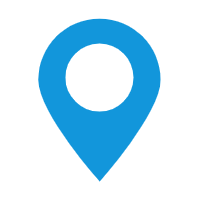
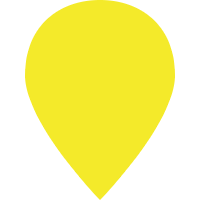
fix(聚合): 聚合

diff --git a/src/pages/entitys/EntityCluster2/index.vue b/src/pages/entitys/EntityCluster2/index.vue
@@ -61,7 +61,11 @@ export default {
                 entity.billboard.height = 50
                 customdataSource.entities.add(entity)
             }
+            customdataSource.clustering.enabled = true
+            customdataSource.clustering.pixelRange = 40
+            customdataSource.clustering.minimumClusterSize = 3
             this.viewer.dataSources.add(customdataSource)
+
             this.watchClusterListener(customdataSource)
         },
         watchClusterListener(dataSource) {
@@ -71,13 +75,20 @@ export default {
             } else {
                 this.removeListener = dataSource.clustering.clusterEvent.addEventListener(
                     (clusteredEntities, cluster) => {
-                        cluster.label.show = false
+                        cluster.label.show = true
+
+                        cluster.label.text = clusteredEntities.length.toLocaleString()
+                        cluster.label.font = '20px sans-serif'
+                        cluster.label.fillColor = Cesium.Color.BLACK
+                        cluster.label.pixelOffset = new Cesium.Cartesian2(-5, -0)
+                        cluster.label.eyeOffset = new Cesium.Cartesian3(0, 0, -10000)
                         cluster.billboard.show = true
                         cluster.billboard.id = cluster.label.id
-                        cluster.billboard.verticalOrigin =
-                            Cesium.VerticalOrigin.BOTTOM
+                        // cluster.billboard.verticalOrigin =
+                        //     Cesium.VerticalOrigin.BOTTOM
+                        cluster.billboard.width = 60
+                        cluster.billboard.height = 60
                         cluster.billboard.image = '/image/location.png'
-                        cluster.label.text = clusteredEntities.length.toLocaleString()
                     }
                 )
             }
